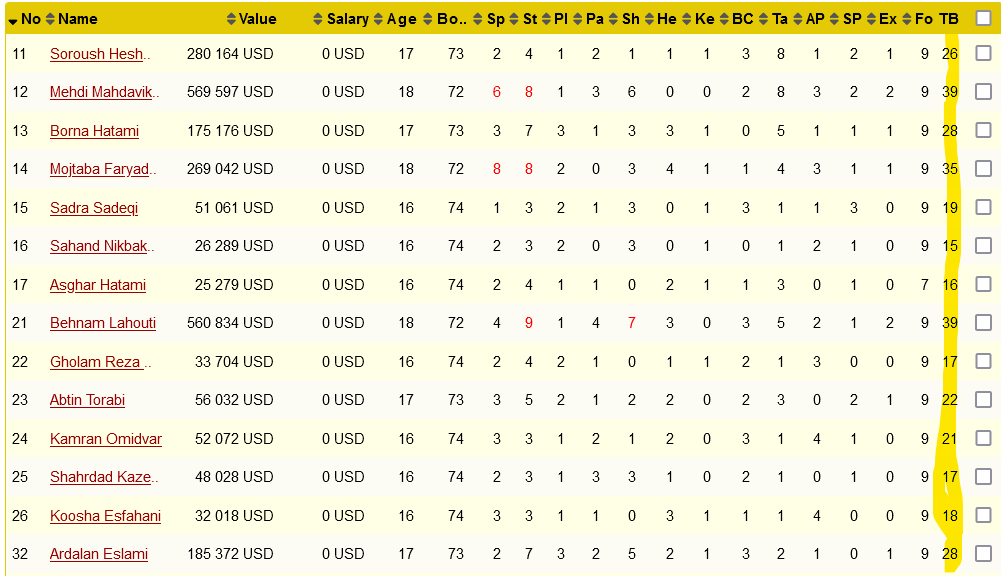
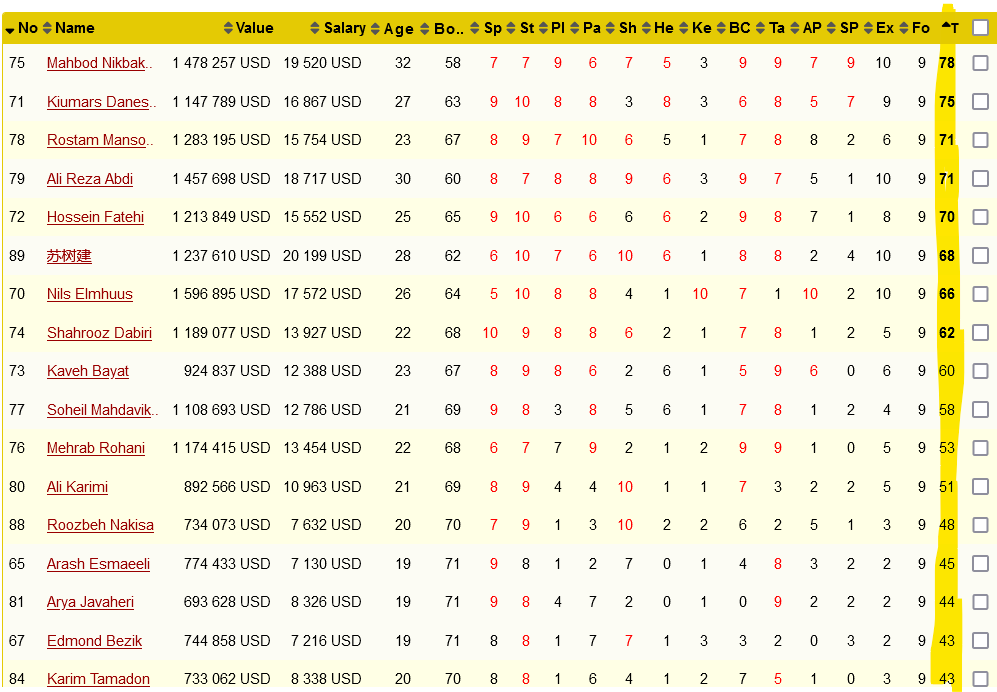
Update Readme (#75)
* update images

* update readme

diff --git a/README.md b/README.md
@@ -17,25 +17,29 @@ If `Display Maxed Skills in Transfer (If Available)` is enabled from **MZY Setti
 
 * Adds a table to the "Squad Summary" page, displaying player values in groups such as "Top 11 - U23."
 
-<img src="https://raw.githubusercontent.com/mz-ir/mz-player-values/main/img/SquadSummary.png" alt="Squad Summary" style="border: 2px solid black;">
+<img src="https://raw.githubusercontent.com/mz-ir/mazyar/main/img/SquadSummary.png" alt="Squad Summary" style="border: 2px solid black;">
+
+* Also adds a column to the table for 'Total Skill Balls'. You can click on the header to sort your players based on their total skill balls.
+
+<img src="https://raw.githubusercontent.com/mz-ir/mazyar/main/img/TotalSkillBalls.png" alt="Total Skill Balls" style="border: 2px solid black;">
 
 ## Leagues & Cups Pages
 
 * Enhances the table by including top players' values and average age.
 * Click on the header to explore other age limits.
 
-<img src="https://raw.githubusercontent.com/mz-ir/mz-player-values/main/img/LeaguePageToggle.gif" alt="League" style="border: 2px solid black;">
+<img src="https://raw.githubusercontent.com/mz-ir/mazyar/main/img/LeaguePageToggle.gif" alt="League" style="border: 2px solid black;">
 
 * Click on team value to see squad summary.
 
-<img src="https://raw.githubusercontent.com/mz-ir/mz-player-values/main/img/LeaguePage.png" alt="League" style="border: 2px solid black;">
+<img src="https://raw.githubusercontent.com/mz-ir/mazyar/main/img/LeaguePage.png" alt="League" style="border: 2px solid black;">
 
 ## Federation Front Page
 
 * Displays values of the top 11 players from each team member.
 * Sorts teams based on their total value.
 
-<img src="https://raw.githubusercontent.com/mz-ir/mz-player-values/main/img/FrontPage.png" alt="Front Page" style="border: 2px solid black;">
+<img src="https://raw.githubusercontent.com/mz-ir/mazyar/main/img/FrontPage.png" alt="Front Page" style="border: 2px solid black;">
 
 ## Clash Page
 
@@ -43,14 +47,14 @@ If `Display Maxed Skills in Transfer (If Available)` is enabled from **MZY Setti
 * Also adds top players value for each team.
 * Click the rank button to view the "squad summary" in place.
 
-<img src="https://raw.githubusercontent.com/mz-ir/mz-player-values/main/img/Clash.png" alt="Clash" style="border: 2px solid black;">
+<img src="https://raw.githubusercontent.com/mz-ir/mazyar/main/img/Clash.png" alt="Clash" style="border: 2px solid black;">
 
 ## Match Page
 
 * Provides the starting lineup value and average age.
 * Adds a new column to display individual player values and ages.
 
-<img src="https://raw.githubusercontent.com/mz-ir/mz-player-values/main/img/MatchPage.png" alt="Match" style="border: 2px solid black;">
+<img src="https://raw.githubusercontent.com/mz-ir/mazyar/main/img/MatchPage.png" alt="Match" style="border: 2px solid black;">
 
 ## Official Leagues' Schedule
 
@@ -60,13 +64,13 @@ If `Display Maxed Skills in Transfer (If Available)` is enabled from **MZY Setti
   * Draw: Yellow
   * Incoming: Cyan
 
-<img src="https://raw.githubusercontent.com/mz-ir/mz-player-values/main/img/ScheduleColoring.gif" alt="Schedule" style="border: 2px solid black;">
+<img src="https://raw.githubusercontent.com/mz-ir/mazyar/main/img/ScheduleColoring.gif" alt="Schedule" style="border: 2px solid black;">
 
 ## Fixture Page
 
 * Displays the final result of in-progress matches.
 
-<img src="https://raw.githubusercontent.com/mz-ir/mz-player-values/main/img/Fixtures.png" alt="Fixtures" style="border: 2px solid black;">
+<img src="https://raw.githubusercontent.com/mz-ir/mazyar/main/img/Fixtures.png" alt="Fixtures" style="border: 2px solid black;">
 
 ## About The Name
 
